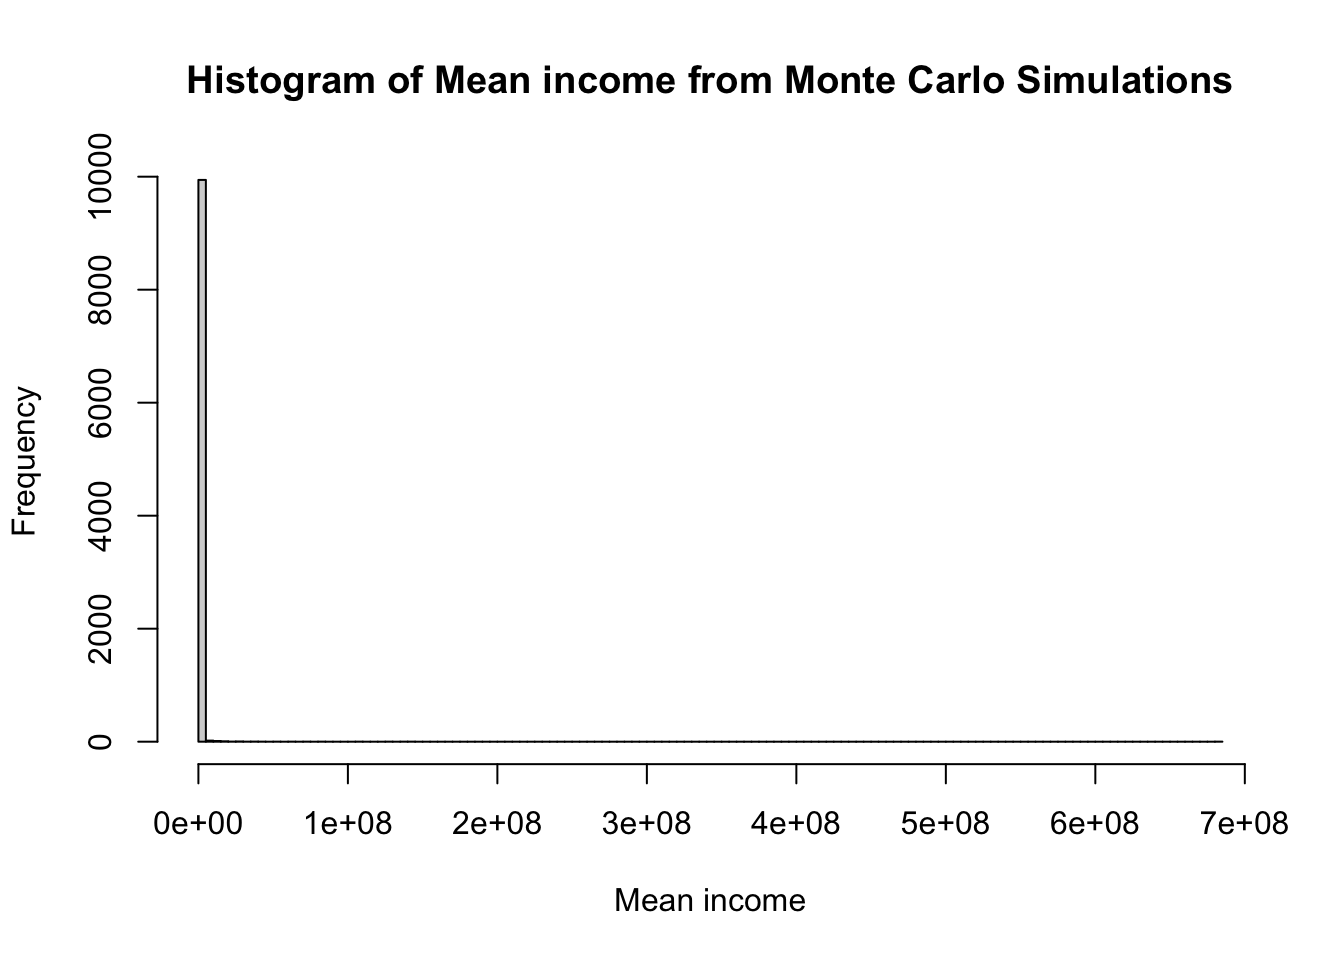
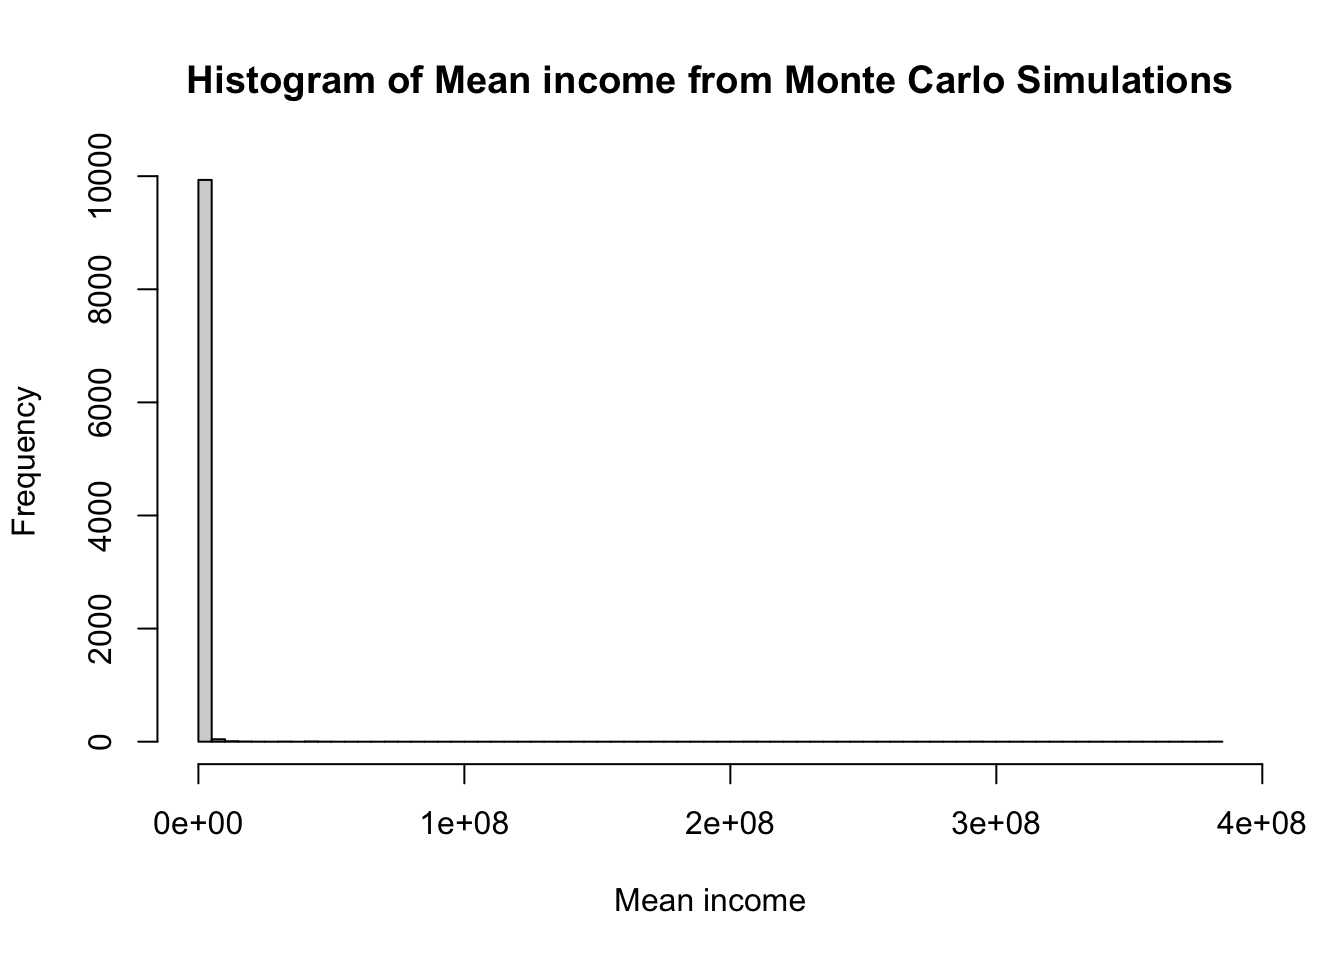
tables

diff --git a/docs/Revision notes/Basic science/Classifications and tables/Tables.html b/docs/Revision notes/Basic science/Classifications and tables/Tables.html
@@ -2920,76 +2920,49 @@ Rockers of Gait
 </div>
 </div>
 <p>&nbsp;</p>
-<section id="stabilisers-of-the-elbowchapter2014.html_toc529231686-chapter2014.htmlsigil_toc_id_105" class="level5">
-<h5 class="anchored" data-anchor-id="stabilisers-of-the-elbowchapter2014.html_toc529231686-chapter2014.htmlsigil_toc_id_105">[Stabilisers of the Elbow]{#Chapter%2014.html#_Toc529231686} {#Chapter%2014.html#sigil_toc_id_105}</h5>
-<p>&nbsp;</p>
+<div class="callout callout-style-simple callout-none no-icon callout-titled">
+<div class="callout-header d-flex align-content-center">
+<div class="callout-icon-container">
+<i class="callout-icon no-icon"></i>
+</div>
+<div class="callout-title-container flex-fill">
+Stabilisers of the Elbow
+</div>
+</div>
+<div class="callout-body-container callout-body">
 <table class="table">
 <colgroup>
-<col style="width: 16%">
-<col style="width: 17%">
-<col style="width: 1%">
-<col style="width: 17%">
-<col style="width: 17%">
-<col style="width: 1%">
-<col style="width: 7%">
-<col style="width: 17%">
-<col style="width: 1%">
+<col style="width: 24%">
+<col style="width: 53%">
+<col style="width: 21%">
 </colgroup>
 <tbody>
 <tr class="odd">
-<td></td>
-<td>[Pr imary S tatic]{ style =“fon t-wei ght:b old; color :#000 090”}</td>
-<td></td>
-<td></td>
-<td>[Seco ndary S tatic]{ style =“fon t-wei ght:b old; color :#000 090”}</td>
-<td></td>
-<td></td>
-<td>[Seco ndary Dy namic]{ style =“fon t-wei ght:b old; color :#000 090”}</td>
-<td></td>
+<td><strong>Primary Static</strong></td>
+<td><strong>Secondary Static</strong></td>
+<td><strong>Secondary Dynamic</strong></td>
 </tr>
 <tr class="even">
-<td><p>[&nbsp;]{ style =“fon t-wei ght:b old”}</p>
-<p>[Ulna colla teral of LCL]{ style =“fon t-wei ght:b old”}</p>
-<p>( varus &amp; poste rolat eral)</p></td>
-<td></td>
-<td></td>
-<td><p>[&nbsp;]{ style =“fon t-wei ght:b old”}</p>
-<p>[R adial Head]{ style =“fon t-wei ght:b old”}</p>
-<p>Pr imary stabi lizer if co ronoi d/MCL frac tured /torn (v algus &amp; AP)</p></td>
-<td></td>
-<td></td>
-<td>Anc oneus</td>
-<td></td>
-<td></td>
+<td><p>Ulna collateral of LCL</p>
+<p>(varus &amp; posterolateral)</p></td>
+<td><p>Radial Head</p>
+<p>Primary stabilizer if coronoid/MCL fractured /torn(v algus &amp; AP)</p></td>
+<td>Anconeus</td>
 </tr>
 <tr class="odd">
-<td><p>[&nbsp;]{ style =“fon t-wei ght:b old”}</p>
-<p>[Ant erior band of MCL]{sty le=“f ont-w eight :bold”}(va lgus)</p></td>
+<td>Anterior band of MCL(valgus)</td>
 <td></td>
-<td></td>
-<td></td>
-<td></td>
-<td></td>
-<td>Brach ialis</td>
-<td></td>
-<td></td>
+<td>Brachialis</td>
 </tr>
 <tr class="even">
-<td><p>[&nbsp;]{ style =“fon t-wei ght:b old”}</p>
-<p>[Cor onoid Pr ocess]{ style =“fon t-wei ght:b old”}</p></td>
+<td>Coronoid Process</td>
 <td></td>
-<td></td>
-<td></td>
-<td></td>
-<td></td>
-<td>F lexor &amp; Ext ensor m asses</td>
-<td></td>
-<td></td>
+<td>Flexor &amp; Extensor masses</td>
 </tr>
 </tbody>
 </table>
-<p>&nbsp;</p>
-</section>
+</div>
+</div>
 </section>
 <section id="mrc-muscle-power" class="level2">
 <h2 class="anchored" data-anchor-id="mrc-muscle-power">MRC Muscle Power</h2>

diff --git a/docs/posts/montecarlo.html b/docs/posts/montecarlo.html
@@ -993,7 +993,7 @@ Income distribution is not normal
 </details>
 <div class="cell-output cell-output-stdout">
 <pre><code>     Min.   1st Qu.    Median      Mean   3rd Qu.      Max. 
-   214638    295663    344077    648808    434746 680277629 </code></pre>
+   213430    295882    342562    610783    434797 384303874 </code></pre>
 </div>
 <details open="" class="code-fold">
 <summary>Code</summary>
@@ -1001,7 +1001,7 @@ Income distribution is not normal
 </details>
 <div class="cell-output cell-output-stdout">
 <pre><code>   Min. 1st Qu.  Median    Mean 3rd Qu.    Max. 
-  62186   64077   64492   64504   64938   67184 </code></pre>
+  62067   64080   64510   64515   64942   67035 </code></pre>
 </div>
 <details open="" class="code-fold">
 <summary>Code</summary>
@@ -1009,7 +1009,7 @@ Income distribution is not normal
 </details>
 <div class="cell-output cell-output-stdout">
 <pre><code>     Min.   1st Qu.    Median      Mean   3rd Qu.      Max. 
-1.001e+06 3.305e+06 5.763e+06 3.536e+07 1.175e+07 6.799e+10 </code></pre>
+9.377e+05 3.341e+06 5.584e+06 3.168e+07 1.195e+07 3.839e+10 </code></pre>
 </div>
 </div>
 </section>

diff --git a/docs/Revision notes/Diagrams/diagrams.html b/docs/Revision notes/Diagrams/diagrams.html
@@ -1273,7 +1273,7 @@ window.document.addEventListener("DOMContentLoaded", function (event) {
 </div>
   </div>
 </footer>
-<script>var lightboxQuarto = GLightbox({"descPosition":"bottom","openEffect":"zoom","loop":false,"closeEffect":"zoom","selector":".lightbox"});
+<script>var lightboxQuarto = GLightbox({"selector":".lightbox","openEffect":"zoom","descPosition":"bottom","closeEffect":"zoom","loop":false});
 window.onload = () => {
   lightboxQuarto.on('slide_before_load', (data) => {
     const { slideIndex, slideNode, slideConfig, player, trigger } = data;
